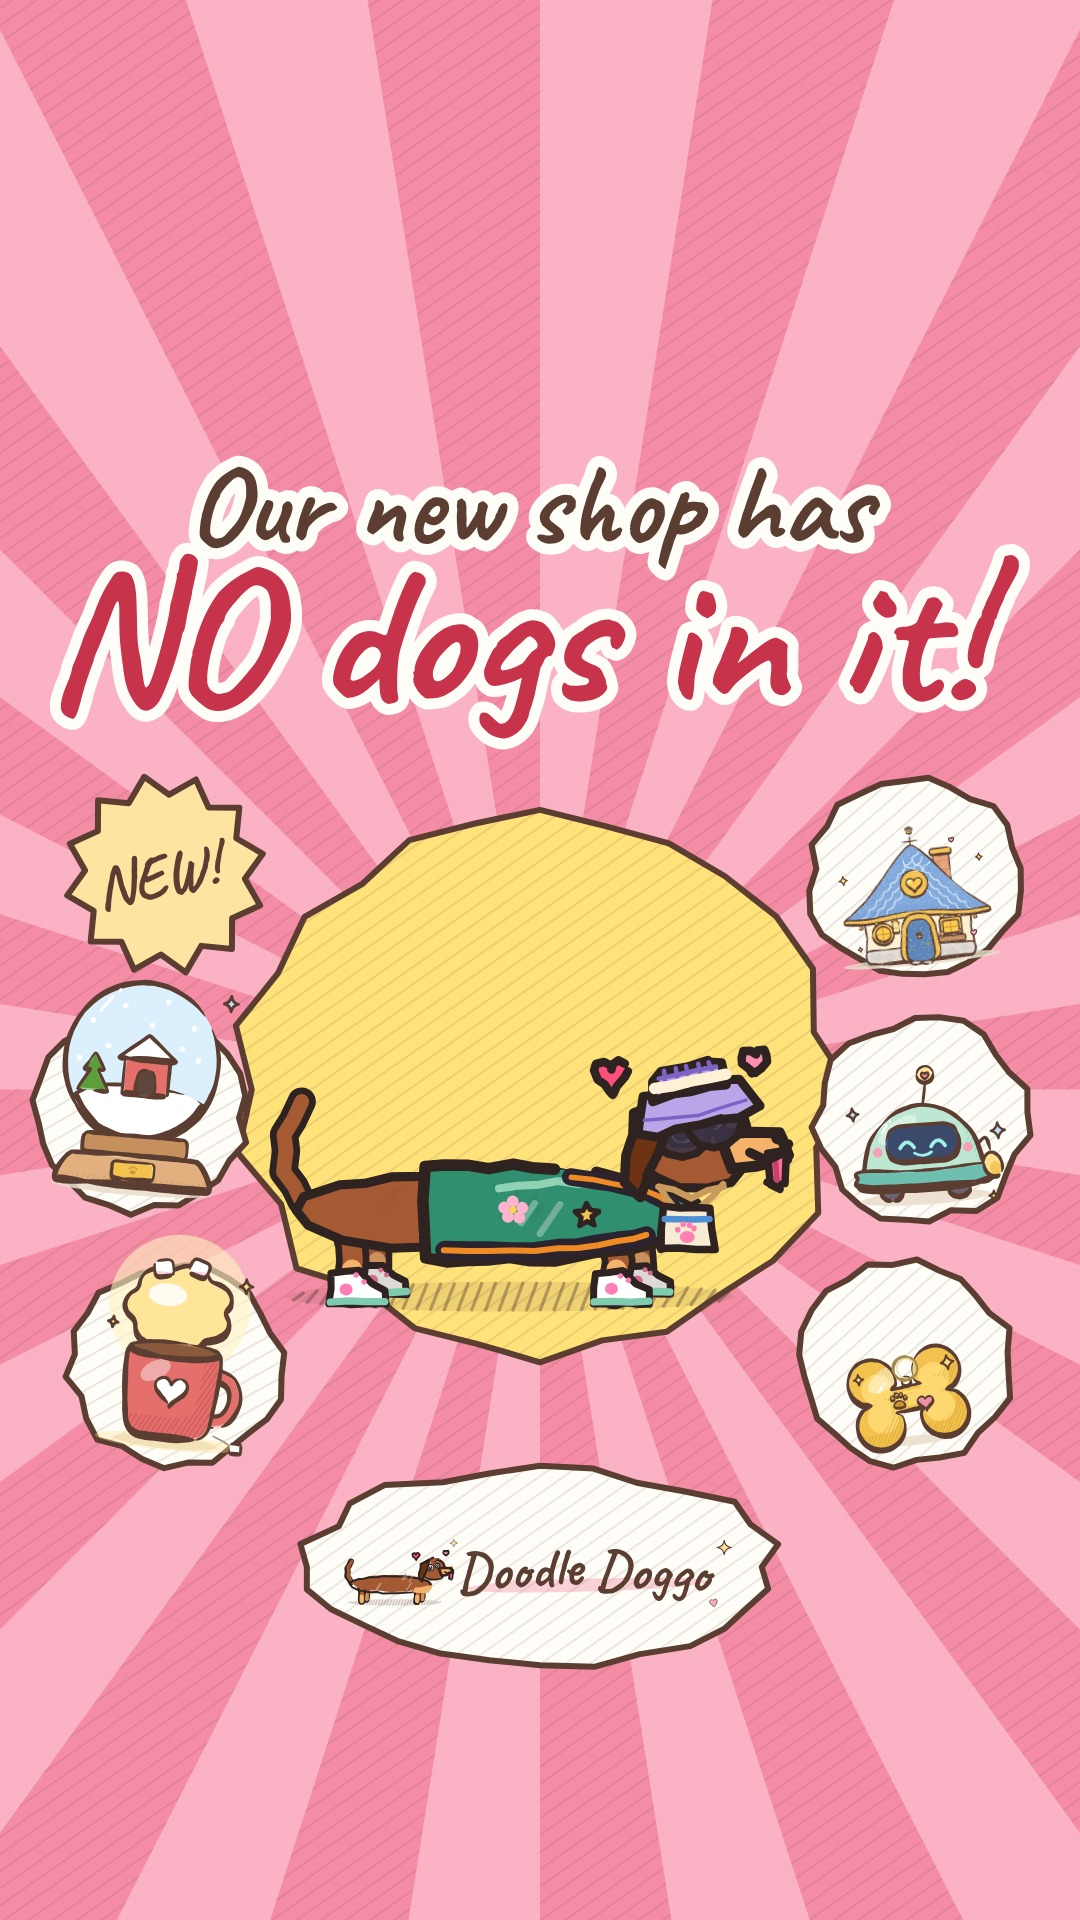
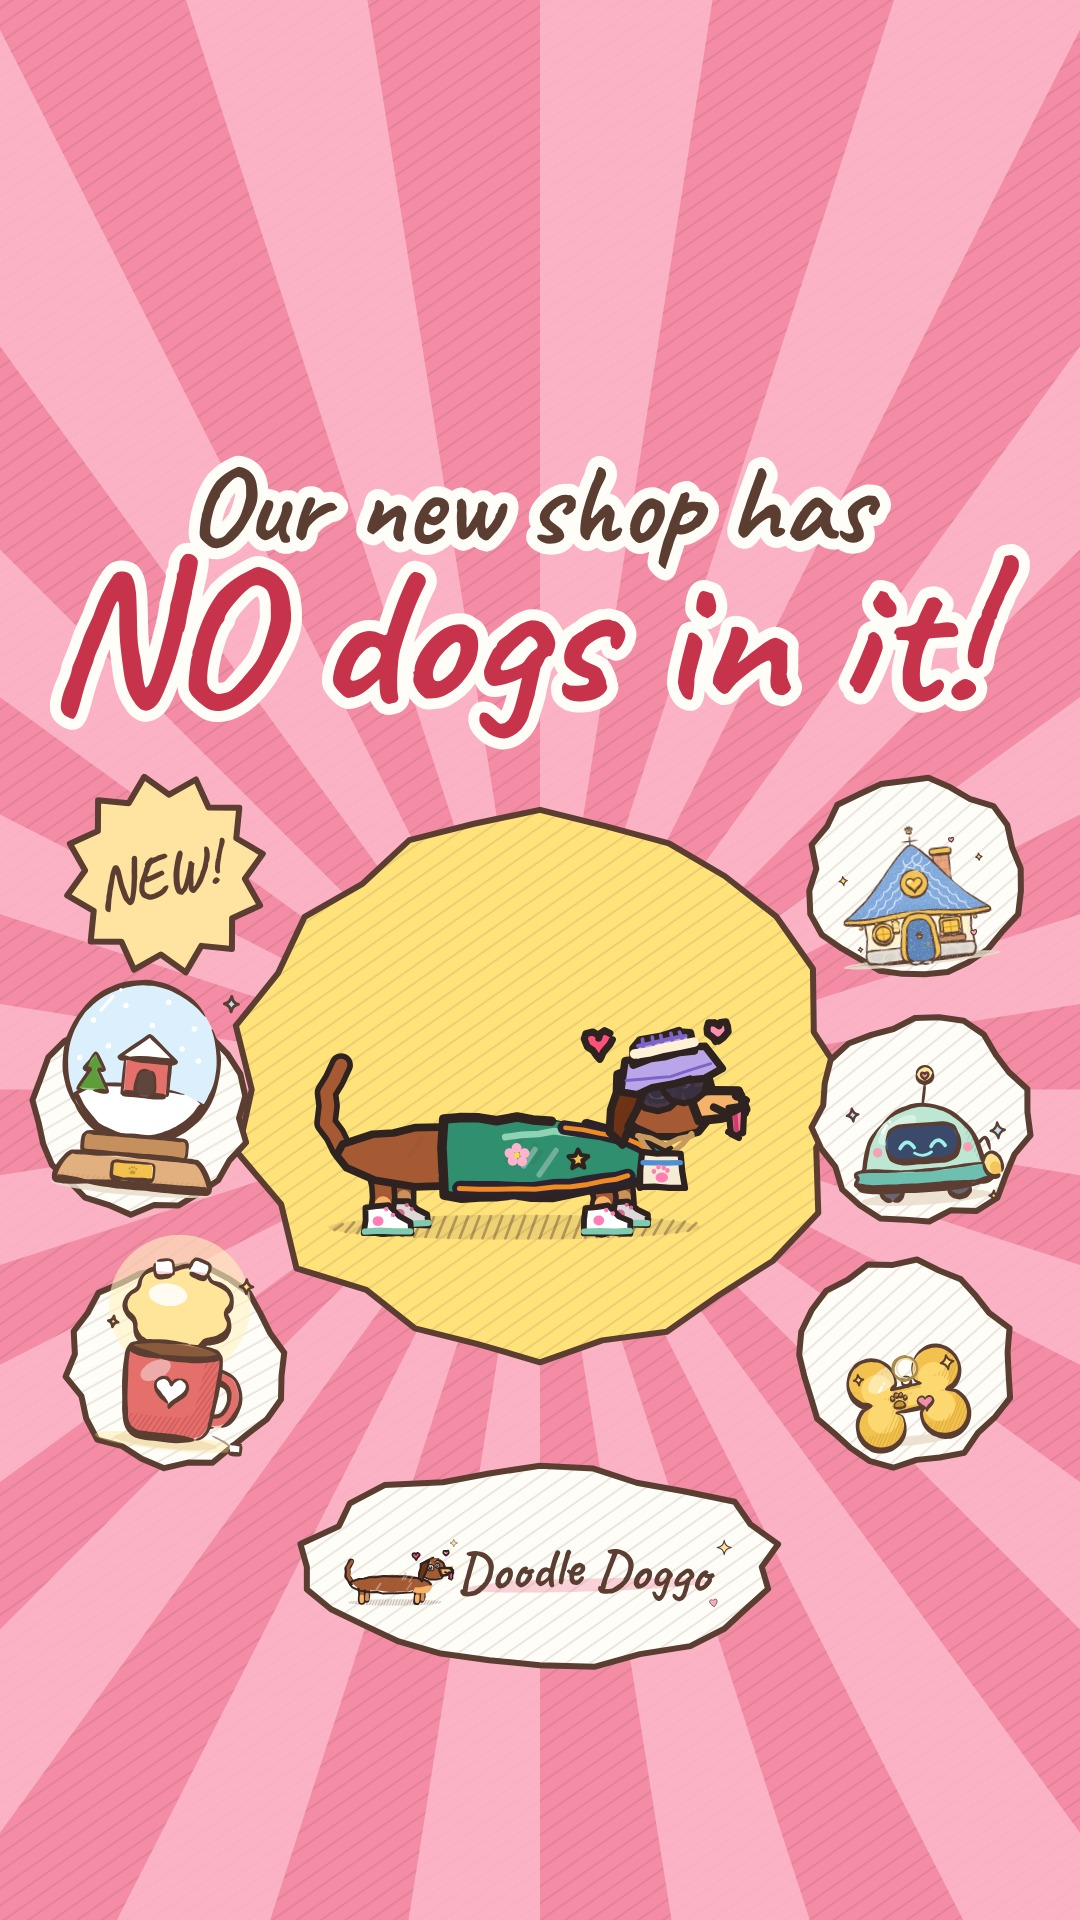
Kind shop covers: Noodle wholly inside the yellow bubble, centred (owner)
Claude-Session: https://claude.ai/code/session_01D6KLY4Gxx78VuyjbRFaSgb

Changed region(s): [[0.2444, 0.5312, 0.7333, 0.6875]]

diff --git a/brand/instagram/launch/shop_reel/build_shop.js b/brand/instagram/launch/shop_reel/build_shop.js
@@ -293,7 +293,7 @@ window.cover=function(){ const Y0=RN?240:420, Y1=RN?1680:1500, h=Y1-Y0, cx=540;
   const dy=RN?1.18:1;
   const ring=[['Golden Paw Cottage',915,ncy-(RN?295:210),-6],['Doggy Snow Globe',140,ncy+20*dy,5],['Robo Scoop',RN?928:922,ncy+30*dy,-4],['lampLit',175,ncy+(RN?340:275),6],['Golden Name Tag',905,ncy+(RN?340:275),-7]];
   ring.forEach(([id,x,y,r],i)=>{ art+='<g transform="rotate('+r+' '+f2(x)+' '+f2(y)+')">'+sticker(x,y,108,'${CREAM}',50+i,0.95)+place(id,x,y+86,175,160,1.35,0)+'</g>'; });
-  art+=place('dressHappy',cx-(RN?0:4),ncy+(RN?250:222),RN?540:505,RN?460:420,1,0,{apart:'noodle'});
+  art+=place('dressHappy',cx-(RN?0:4),ncy+(RN?165:150),RN?450:420,RN?385:350,1,0,{apart:'noodle'}); // owner, 10 Nov 2026: Noodle (tail, hearts, sneakers) sits wholly inside the yellow bubble
   art+=starburst(165,ncy-(RN?295:215),100,TX.coverTag,RN?64:60,-12);
   // the hook: two lines, the second one huge
   const hy=Y0+(RN?190:182), l0=TX.cover[0], l1=TX.cover[1];
